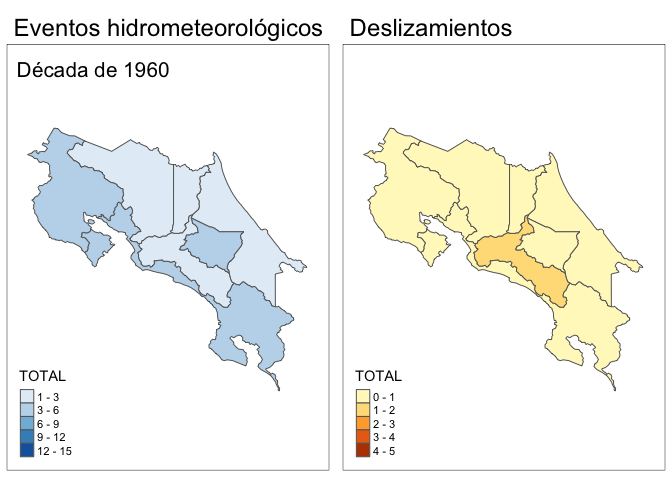
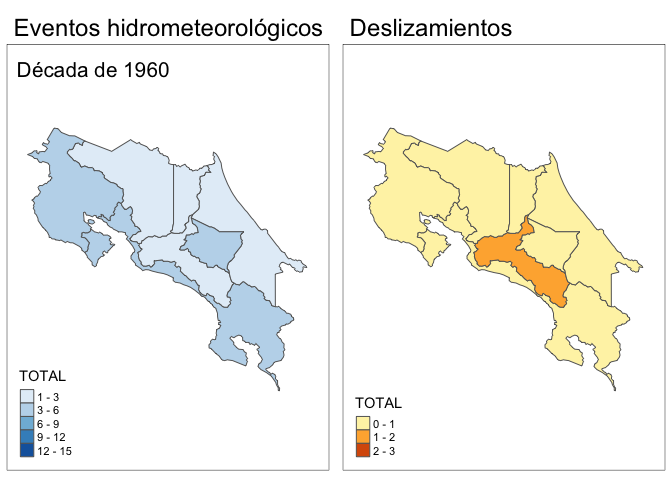
últimas actualizaciones

Changed region(s): [[0.6875, 0.4688, 0.8438, 0.6562], [0.5312, 0.75, 0.5938, 0.9688]]

diff --git a/AnalisisDesastresCR.md b/AnalisisDesastresCR.md
@@ -629,7 +629,7 @@ funMapasDec <- function(dec) {
                          bbox = bbox) +
       tm_polygons(col = "TOTAL",
                   style = "fixed",
-                  breaks = c(0, 1, 2, 3, 4, 5)) +
+                  breaks = c(0, 1, 2, 3)) +
       tm_layout(main.title = "Deslizamientos",
                 legend.format=list(fun=function(x) formatC(x, digits=0, format="d"), text.separator = "-"))
     
